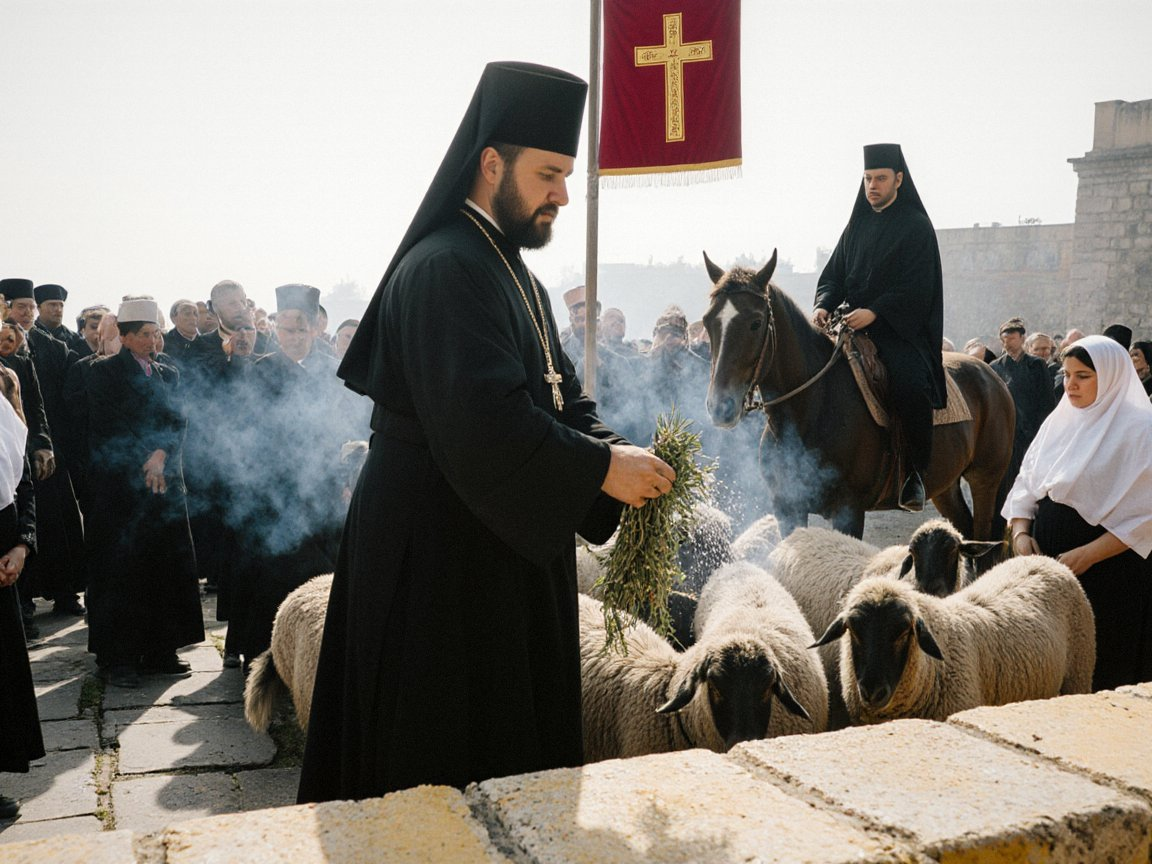
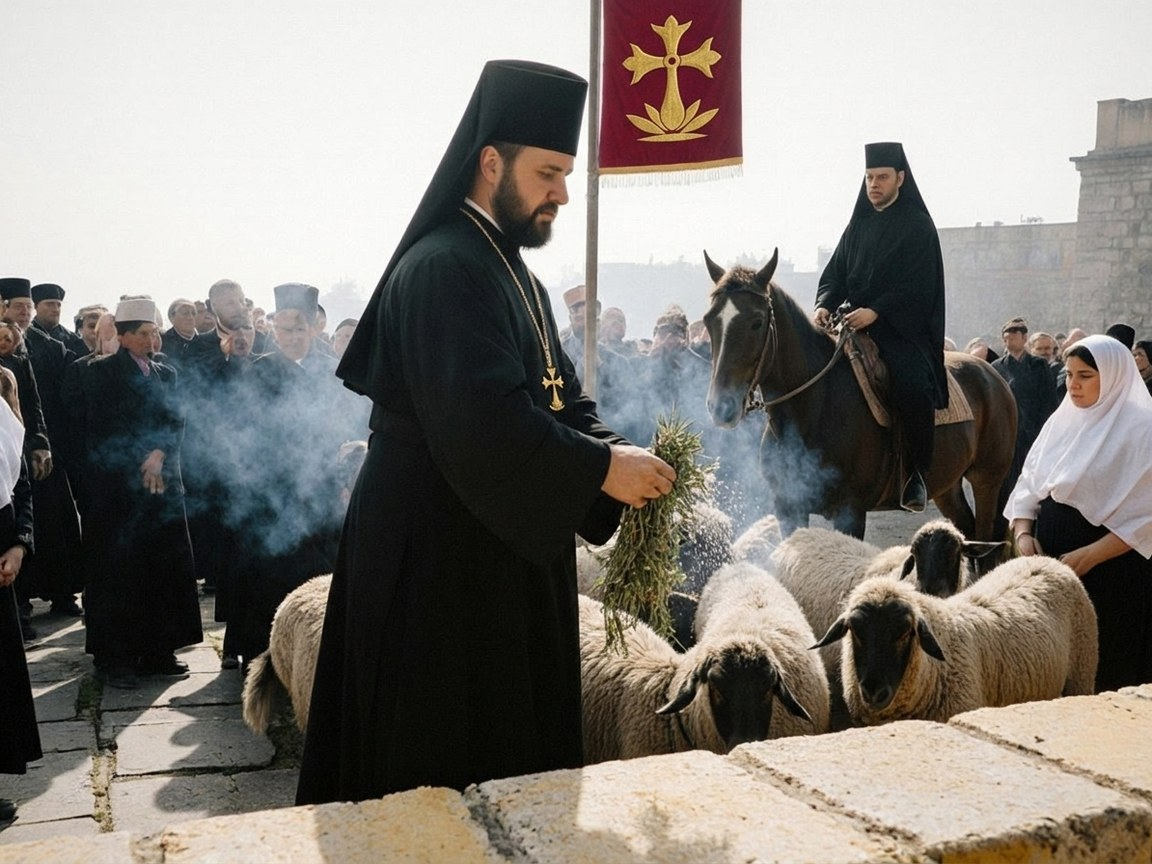
Replace Feast of St Janyl photo

diff --git a/wiki/Iradis.html b/wiki/Iradis.html
@@ -14,7 +14,7 @@
 <meta property="og:description" content="The Iradis (Iradi: Iraddar; singular Irad) are a Kipchak Turkic people native to Irad, where they form the majority of the population. They speak Iradi, a…">
 <meta property="og:url" content="https://irad.wiki/wiki/Iradis">
 <meta property="og:image" content="https://irad.wiki/images/Feast_of_St_Janyl.jpg">
-<meta property="og:image:alt" content="A priest in a black cassock and tall black hat sprinkles water from a bunch of herbs over sheep beside a yellow stone wall; mounted priests, women in white headscarves, juniper smoke and a crimson banner with a white cross behind">
+<meta property="og:image:alt" content="A priest in a black cassock and tall black hat sprinkles water from a bunch of herbs over sheep beside a yellow stone wall; mounted priests, women in white headscarves, juniper smoke and a crimson banner with the gold Iradi cross behind">
 <meta property="og:locale" content="en_US">
 <meta name="twitter:card" content="summary_large_image">
 <meta name="twitter:title" content="Iradis – Irad Wiki">
@@ -90,7 +90,7 @@
 <div class="title-row"><h1 class="firstHeading">Iradis</h1></div>
 <div class="siteSub">From Irad Wiki, the free encyclopedia</div>
 <div class="prose">
-<figure class="thumb lead" style="width:NaNpx"><img src="/images/Feast_of_St_Janyl.jpg" width="undefined" alt="A priest in a black cassock and tall black hat sprinkles water from a bunch of herbs over sheep beside a yellow stone wall; mounted priests, women in white headscarves, juniper smoke and a crimson banner with a white cross behind"><figcaption>The Blessing of the Herds at the Feast of St. Janyl, Iyık Janyl</figcaption></figure>
+<figure class="thumb lead" style="width:NaNpx"><img src="/images/Feast_of_St_Janyl.jpg" width="undefined" alt="A priest in a black cassock and tall black hat sprinkles water from a bunch of herbs over sheep beside a yellow stone wall; mounted priests, women in white headscarves, juniper smoke and a crimson banner with the gold Iradi cross behind"><figcaption>The Blessing of the Herds at the Feast of St. Janyl, Iyık Janyl</figcaption></figure>
 <p>The <strong>Iradis</strong> (Iradi: <em>Iraddar</em>; singular <em>Irad</em>) are a <a class="ext" href="https://en.wikipedia.org/wiki/Kipchaks" rel="noopener">Kipchak</a> Turkic people native to <a class="wl" href="/wiki/Irad" title="Irad">Irad</a>, where they form the majority of the population. They speak <a class="wl" href="/wiki/Iradi_Language" title="Iradi Language">Iradi</a>, a language closely related to Kyrgyz, and are distinguished from their Turkic neighbors chiefly by religion: most Iradis belong to the <a class="wl" href="/wiki/Syro-Iradi_Catholic_Church" title="Syro-Iradi Catholic Church">Syro-Iradi Catholic Church</a>, an Eastern Catholic church descended from the <a class="ext" href="https://en.wikipedia.org/wiki/Church_of_the_East" rel="noopener">Church of the East</a>, which converted Turkic pastoralists of the region in the 11th and 12th centuries. The official census of 2018 counted about 3.5 million Iradis, 75 percent of Irad's population. Independent researchers consider this an undercount, because the census only estimated the population of the <a class="wl" href="/wiki/Autonomous_Tribal_Regions" title="Autonomous Tribal Regions">Autonomous Tribal Regions</a> (ATR), where Iradis are the large majority.<sup>[1]</sup><sup>[2]</sup></p>
 <p>Iradis are divided between a largely urban, multilingual population in the <a class="wl" href="/wiki/Irad_Special_Economic_Zone" title="Irad Special Economic Zone">Irad Special Economic Zone</a> (ISEZ) and a rural, pastoral population in the tribal regions, organized in 24 patrilineal clans. Their identity rests on a set of practices often described as &quot;refusals&quot; that set them apart from their Muslim neighbors, with whom they otherwise share much: the taboo on eating horsemeat, the rejection of animal sacrifice and of male circumcision, and the avoidance of Arabic religious vocabulary.<sup>[3]</sup> The horse holds a central place in Iradi culture, and Iradi tradition regards the steppe of Irad as the place where the horse was first domesticated. The largest Iradi communities abroad are in <a class="ext" href="https://en.wikipedia.org/wiki/Bishkek" rel="noopener">Bishkek</a> and <a class="ext" href="https://en.wikipedia.org/wiki/Almaty" rel="noopener">Almaty</a>, and others live in Russia and the United States, where the largest community is in <a class="ext" href="https://en.wikipedia.org/wiki/Chicago" rel="noopener">Chicago</a>.</p>
 <h2>Name</h2>

diff --git a/wiki/Iradi_calendar.html b/wiki/Iradi_calendar.html
@@ -14,7 +14,7 @@
 <meta property="og:description" content="The Iradi calendar (Iradi: Irad jyl sanagy, &quot;Iradi year-reckoning&quot;) is the set of overlapping calendars that organize the year in Irad. The civil calendar of…">
 <meta property="og:url" content="https://irad.wiki/wiki/Iradi_calendar">
 <meta property="og:image" content="https://irad.wiki/images/Feast_of_St_Janyl.jpg">
-<meta property="og:image:alt" content="A priest in a black cassock and tall black hat sprinkles water from a bunch of herbs over sheep beside a yellow stone wall; mounted priests, women in white headscarves, juniper smoke and a crimson banner with a white cross behind">
+<meta property="og:image:alt" content="A priest in a black cassock and tall black hat sprinkles water from a bunch of herbs over sheep beside a yellow stone wall; mounted priests, women in white headscarves, juniper smoke and a crimson banner with the gold Iradi cross behind">
 <meta property="og:locale" content="en_US">
 <meta name="twitter:card" content="summary_large_image">
 <meta name="twitter:title" content="Iradi calendar – Irad Wiki">
@@ -90,7 +90,7 @@
 <div class="title-row"><h1 class="firstHeading">Iradi calendar</h1></div>
 <div class="siteSub">From Irad Wiki, the free encyclopedia</div>
 <div class="prose">
-<figure class="thumb lead" style="width:268px"><img src="/images/Feast_of_St_Janyl.jpg" width="260" alt="A priest in a black cassock and tall black hat sprinkles water from a bunch of herbs over sheep beside a yellow stone wall; mounted priests, women in white headscarves, juniper smoke and a crimson banner with a white cross behind"><figcaption>The Blessing of the Herds on the cathedral esplanade at <a class="wl" href="/wiki/Iy%C4%B1k_Janyl" title="Iyık Janyl">Iyık Janyl</a>, part of the <a class="wl" href="/wiki/Feast_of_St._Janyl" title="Feast of St. Janyl">Feast of St. Janyl</a> (24 August)</figcaption></figure>
+<figure class="thumb lead" style="width:268px"><img src="/images/Feast_of_St_Janyl.jpg" width="260" alt="A priest in a black cassock and tall black hat sprinkles water from a bunch of herbs over sheep beside a yellow stone wall; mounted priests, women in white headscarves, juniper smoke and a crimson banner with the gold Iradi cross behind"><figcaption>The Blessing of the Herds on the cathedral esplanade at <a class="wl" href="/wiki/Iy%C4%B1k_Janyl" title="Iyık Janyl">Iyık Janyl</a>, part of the <a class="wl" href="/wiki/Feast_of_St._Janyl" title="Feast of St. Janyl">Feast of St. Janyl</a> (24 August)</figcaption></figure>
 <p>The <strong>Iradi calendar</strong> (Iradi: <em>Irad jyl sanagy</em>, &quot;Iradi year-reckoning&quot;) is the set of overlapping calendars that organize the year in Irad. The civil calendar of both zones is the Gregorian. The <a class="wl" href="/wiki/Syro-Iradi_Catholic_Church" title="Syro-Iradi Catholic Church">Syro-Iradi Catholic Church</a> has used Gregorian dates for all feasts since its union with Rome in 1931, but keeps the seasons of the East Syriac liturgical year. Alongside these run the pastoral year of the herding clans, a folk twelve-animal cycle (<em>müchöl</em>) and traditional Turkic month names.<sup>[1]</sup><sup>[2]</sup> The most disputed date is Nooruz, an ISEZ public holiday since 1993, which parts of the clergy still regard as a Persian custom (see <a class="wl" href="/wiki/Public_holidays_in_Irad" title="Public holidays in Irad">Public holidays in Irad</a>).<sup>[3]</sup></p>
 <h2>Church year</h2>
 <p>The church year follows the seasons of the East Syriac rite (see <a class="wl" href="/wiki/East_Syriac_Rites_of_Iy%C4%B1k_Janyl" title="East Syriac Rites of Iyık Janyl">East Syriac Rites of Iyık Janyl</a>), which are named in <a class="ext" href="https://en.wikipedia.org/wiki/Syriac_language" rel="noopener">Syriac</a> in the archeparchy's annual liturgical calendar, the <em>Tartip</em>, published at <a class="wl" href="/wiki/Iy%C4%B1k_Janyl" title="Iyık Janyl">Iyık Janyl</a> since 1993. The year begins with <em>Subara</em> (Annunciation) in the four weeks before Christmas and runs through <em>Yalda</em> and <em>Denha</em> (Nativity and Epiphany), the Great Fast (<em>Uluu Savma</em>), the <a class="ext" href="https://en.wikipedia.org/wiki/Resurrection_of_Jesus" rel="noopener">Resurrection</a> (<em>Kyamta</em>), the Apostles, Summer, Elijah and the Cross (<em>Eliya–Salyba</em>), Moses and the Dedication of the Church in November.<sup>[2]</sup> On 6 January priests bless water, and herders take it home from rural churches for the winter.</p>

diff --git a/wiki/Feast_of_St._Janyl.html b/wiki/Feast_of_St._Janyl.html
@@ -14,7 +14,7 @@
 <meta property="og:description" content="The Feast of St. Janyl (Iradi: Janyl Mairamy) is the principal feast of the Syro-Iradi Catholic Church, held on 24 August in honor of St. Janyl, the patron…">
 <meta property="og:url" content="https://irad.wiki/wiki/Feast_of_St._Janyl">
 <meta property="og:image" content="https://irad.wiki/images/Feast_of_St_Janyl.jpg">
-<meta property="og:image:alt" content="A priest in a black cassock and tall black hat sprinkles water from a bunch of herbs over sheep beside a yellow stone wall; mounted priests, women in white headscarves, juniper smoke and a crimson banner with a white cross behind">
+<meta property="og:image:alt" content="A priest in a black cassock and tall black hat sprinkles water from a bunch of herbs over sheep beside a yellow stone wall; mounted priests, women in white headscarves, juniper smoke and a crimson banner with the gold Iradi cross behind">
 <meta property="og:locale" content="en_US">
 <meta name="twitter:card" content="summary_large_image">
 <meta name="twitter:title" content="Feast of St. Janyl – Irad Wiki">
@@ -90,7 +90,7 @@
 <div class="title-row"><h1 class="firstHeading">Feast of St. Janyl</h1></div>
 <div class="siteSub">From Irad Wiki, the free encyclopedia</div>
 <div class="prose">
-<figure class="thumb lead" style="width:308px"><img src="/images/Feast_of_St_Janyl.jpg" width="300" alt="A priest in a black cassock and tall black hat sprinkles water from a bunch of herbs over sheep beside a yellow stone wall; mounted priests, women in white headscarves, juniper smoke and a crimson banner with a white cross behind"><figcaption>The Blessing of the Herds on the cathedral esplanade at Iyık Janyl</figcaption></figure>
+<figure class="thumb lead" style="width:308px"><img src="/images/Feast_of_St_Janyl.jpg" width="300" alt="A priest in a black cassock and tall black hat sprinkles water from a bunch of herbs over sheep beside a yellow stone wall; mounted priests, women in white headscarves, juniper smoke and a crimson banner with the gold Iradi cross behind"><figcaption>The Blessing of the Herds on the cathedral esplanade at Iyık Janyl</figcaption></figure>
 <p>The <strong>Feast of St. Janyl</strong> (Iradi: <em>Janyl Mairamy</em>) is the principal feast of the <a class="wl" href="/wiki/Syro-Iradi_Catholic_Church" title="Syro-Iradi Catholic Church">Syro-Iradi Catholic Church</a>, held on 24 August in honor of <a class="wl" href="/wiki/Janyl,_Mother_of_Irad" title="Janyl, Mother of Irad">St. Janyl</a>, the patron saint and legendary founding mother of the Iradi people. Its center is the <a class="wl" href="/wiki/Church_of_St._Janyl" title="Church of St. Janyl">Church of St. Janyl</a> in <a class="wl" href="/wiki/Iy%C4%B1k_Janyl" title="Iyık Janyl">Iyık Janyl</a>, where pilgrims, many of them on horseback, gather from both the <a class="wl" href="/wiki/Irad_Special_Economic_Zone" title="Irad Special Economic Zone">Irad Special Economic Zone</a> (ISEZ) and the <a class="wl" href="/wiki/Autonomous_Tribal_Regions" title="Autonomous Tribal Regions">Autonomous Tribal Regions</a> (ATR). The feast combines the liturgy with the blessing of the herds, the distribution of blessed bread, processions, horse races and communal meals. The pilgrimage season continues into September.<sup>[1]</sup><sup>[2]</sup></p>
 <h2>History</h2>
 <p>Little is known of the cult of Janyl before the eighteenth century. The church built at Iyık Janyl in 1727 under a charter of the Khan of <a class="ext" href="https://en.wikipedia.org/wiki/Khanate_of_Kokand" rel="noopener">Kokand</a> was dedicated to her, and its foundation made the town the center of her feast. When the church entered into union with Rome in 1931, its own calendar, including the feast of Janyl, was kept. Under Soviet rule public celebration was banned from 1937. Families continued to make private pilgrimages, often at night, until the feast was celebrated openly again in the late 1980s. After the cathedral was returned to the church and reconsecrated in September 1992, the feast resumed its full form.<sup>[1]</sup></p>
